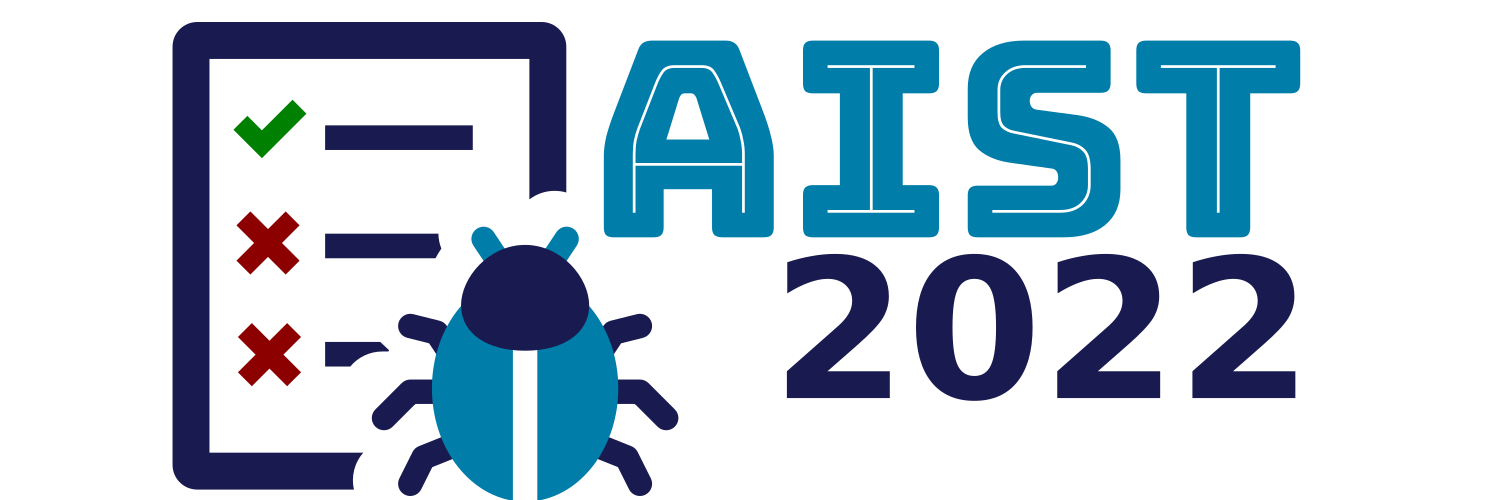
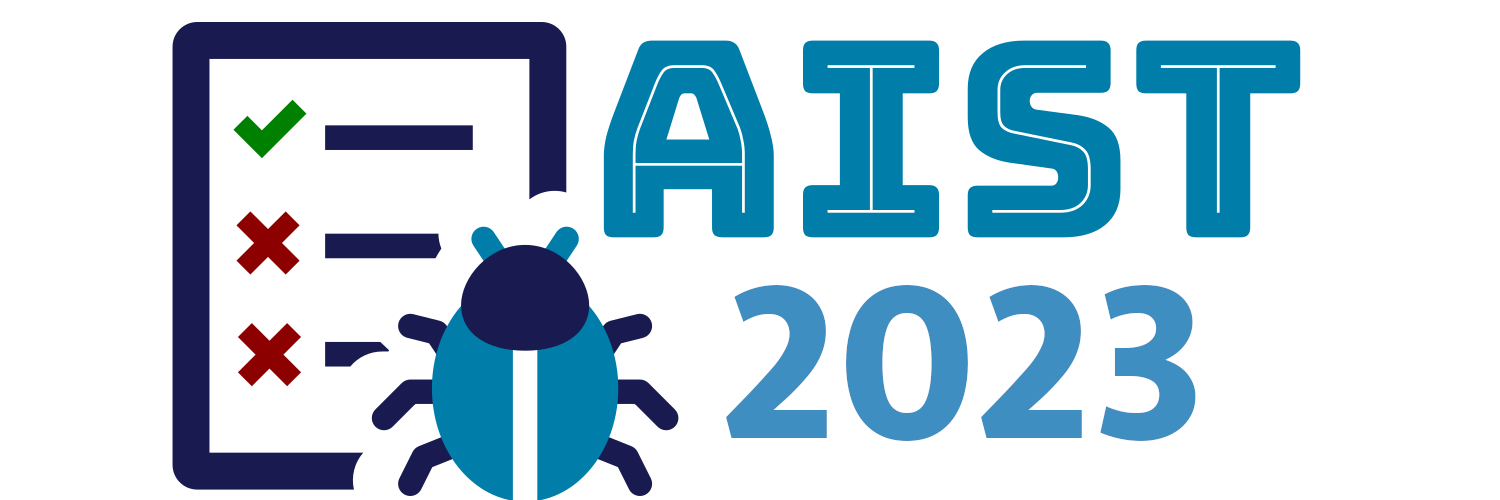
Adding 2023 content

Changed region(s): [[0.46, 0.51, 0.8893, 0.9]]

diff --git a/content/home/cfp.md b/content/home/cfp.md
@@ -11,26 +11,26 @@ title = "Call for Papers"
 author = "admin"
 +++
 
+We invite novel papers from both academia and industry on AI applied to software testing that cover, but are not limited to, the following aspects:
 
-We invite novel papers from academia and industry on AI applied to software testing that cover, but are not limited to, the following aspects:
-
- - AI for test case design, test generation, test prioritization, and test reduction.
- - AI for load testing and performance testing.
- - AI for monitoring running systems or optimizing those systems.
- - Explainable AI for software testing.
- - Case studies, experience reports, benchmarking, and best practices.
- - New ideas, emerging results, and position papers.
- - Industrial case studies with lessons learned or practical guidelines.
+- AI for test case design, test generation, test prioritization, and test reduction.
+- AI for load testing and performance testing.
+- AI for monitoring running systems or optimizing those systems.
+- Explainable AI for software testing.
+- Case studies, experience reports, benchmarking, and best practices.
+- New ideas, emerging results, and position papers.
+- Industrial case studies with lessons learned or practical guidelines.
 
 Papers can be of one of the following types:
- - **Full-papers (max. 8 pages):** Papers presenting mature research results or industrial practices.
- - **Short-papers (max. 4 pages):** Papers presenting new ideas, preliminary results, position statements, and open challenges.
 
-The reviewing process is single blind. Papers must conform to the two-column [IEEE conference publication format](https://www.ieee.org/conferences/publishing/templates.html) and should be submitted via EasyChair using the following link: <br /> 
-https://easychair.org/conferences/?conf=aist22
+- Full Papers (max. 8 pages): Papers presenting mature research results or industrial practices.
+- Short Papers (max. 4 pages): Papers presenting new ideas or preliminary results.
+- Tool Papers (max. 4 pages): Papers presenting an AI-enabled testing tool. Tool papers should communicate the purpose and use cases for the tool. The tool should be made available (either free to download or for purchase).
+- Position Papers (max. 2 pages): Position statements and open challenges, intended to spark discussion or debate.
 
-All submissions must be original, unpublished, and not submitted for publication elsewhere. For all accepted papers, at least one author must register in the workshop and present the paper. 
+The reviewing process is single blind. Therefore, papers do not need to be anonymized. Papers must conform to the two-column IEEE conference publication format and should be submitted via EasyChair using the following link: (Link TBA)
 
-Papers presented at AIST will be published through the IEEE digital library.
+All submissions must be original, unpublished, and not submitted for publication elsewhere. Submissions will be evaluated according to the relevance and originality of the work and on their ability to generate discussions between the participants of the workshop. Each submission will be reviewed by three reviewers, and all accepted papers will be published as part of the ICST proceedings. For all accepted papers, at least one author must register in the workshop and present the paper. 
+
 
 

diff --git a/content/home/description.md b/content/home/description.md
@@ -12,9 +12,8 @@ author = "admin"
 +++
 
 
-The application of AI techniques in software testing is in its early stages. In the last few years, software industry and practitioners increasingly adopted novel techniques to ease the software development cycle, namely the testing phase, by means of autonomous testing and/or optimization of repetitive and tedious activities.
+The application of AI techniques in software testing is in its early stages. In the last few years, software developers have increasingly adopted novel techniques to ease the development cycle, namely the testing phase, by means of autonomous testing and/or optimization of repetitive and tedious activities.
 
-AI can transform software testing by supporting more efficient tests and increased automation, which ultimately leads to a reduction in testing costs and in the production of improved software. The AIST workshop aims to gather researchers and industry practitioners to present, discuss, and foster collaboration on novel and up-to-date R&D focused on the application of AI in software testing coined by the multiplicity of perspectives and different topics observed under the AI umbrella.
-
+AI can transform software testing by supporting efficient testing activities and increasing automation, which ultimately leads to a reduction in testing costs and improvements in software quality. The AIST workshop aims to gather researchers and practitioners to present, discuss, and foster collaboration on novel and up-to-date R&D focused on the application of AI in software testing, with an inclusive view of the many perspectives and topics under the AI umbrella.
 
 

diff --git a/content/home/committee.md b/content/home/committee.md
@@ -12,20 +12,9 @@ author = "admin"
 +++
 
 ## Organizing Committee
- - [Alexandra Mendes](https://archimendes.com/), INESC TEC & Faculdade de Engenharia, Universidade do Porto, Portugal (Chair)
+ - [Gregory Gay](https://greggay.com/), Chalmers | University of Gothenburg, Sweden (Co-Chair)
+ - [Gunel Jahangirova](https://sites.google.com/view/guneljahangirova), King's College London, UK (Co-Chair)
 
 ## Program Committee
- - [Rui Abreu](https://ruimaranhao.com/), Universidade do Porto, Portugal
- - [Aldeida Aleti](https://users.monash.edu.au/~aldeidaa/), Monash University, Australia
- - [Daniela Cruzes](https://www.ntnu.edu/employees/daniela.s.cruzes), Norwegian University of Science and Technology, Norway
- - [João F. Ferreira](https://joaoff.com/), Universidade de Lisboa, Portugal
- - [Gregory Gay](https://greg4cr.github.io/), Chalmers and the University of Gothenburg, Sweden
- - [Sérgio Guerreiro](https://fenix.tecnico.ulisboa.pt/homepage/ist62654), Universidade de Lisboa, Portugal
- - [Wolfgang Mayer](https://people.unisa.edu.au/wolfgang.mayer), University of South Australia, Australia
- - Mihai Nica, AVL List GmbH, Austria
- - [Nuno Pombo](https://www.di.ubi.pt/~ngpombo/), Universidade da Beira Interior, Portugal (Chair)
- - [Wishnu Prasetya](https://www.uu.nl/staff/SWBPrasetya), Utrecht University, The Netherlands
- - [Helge Spieker](https://hspieker.de/), Simula Research Laboratory, Norway
- - [Roni Stern](https://ronistern.wixsite.com/home), Ben-Gurion University of the Negev, Israel
- - [Franz Wotawa](http://www.ist.tugraz.at/franz_wotawa/), Graz University of Technology, Austria
+ - TBA
 

diff --git a/content/home/dates.md b/content/home/dates.md
@@ -11,11 +11,8 @@ title = "Important Dates"
 author = "admin"
 +++
 
- - ~~**Abstract Submission:** 13 January 2022 AoE~~ <br />
- - <span style="color:red">**Abstract Submission:** 20 January 2022 AoE </span><br />
- - ~~**Submission deadline:** 20 January 2022 AoE~~ <br />
- - <span style="color:red">**Submission deadline:** 27 January 2022 AoE </span><br />
- - **Notification of Acceptance:** 17 February 2022 <br />
- - **Camera-ready:** 24 February 2022 <br />
+ - **Submission deadline:** 20 January 2022 AoE 
+ - **Notification of Acceptance:** 3 February 2022
+ - **Camera-ready:** TBA 
 
 

diff --git a/content/home/about.md b/content/home/about.md
@@ -5,7 +5,7 @@ headless = true  # This file represents a page section.
 active = true  # Activate this widget? true/false
 weight = 10  # Order that this section will appear in.
 
-title = "AIST 2022"
+title = "AIST 2023"
 #title = "Biography"
 
 # Choose the user profile to display
